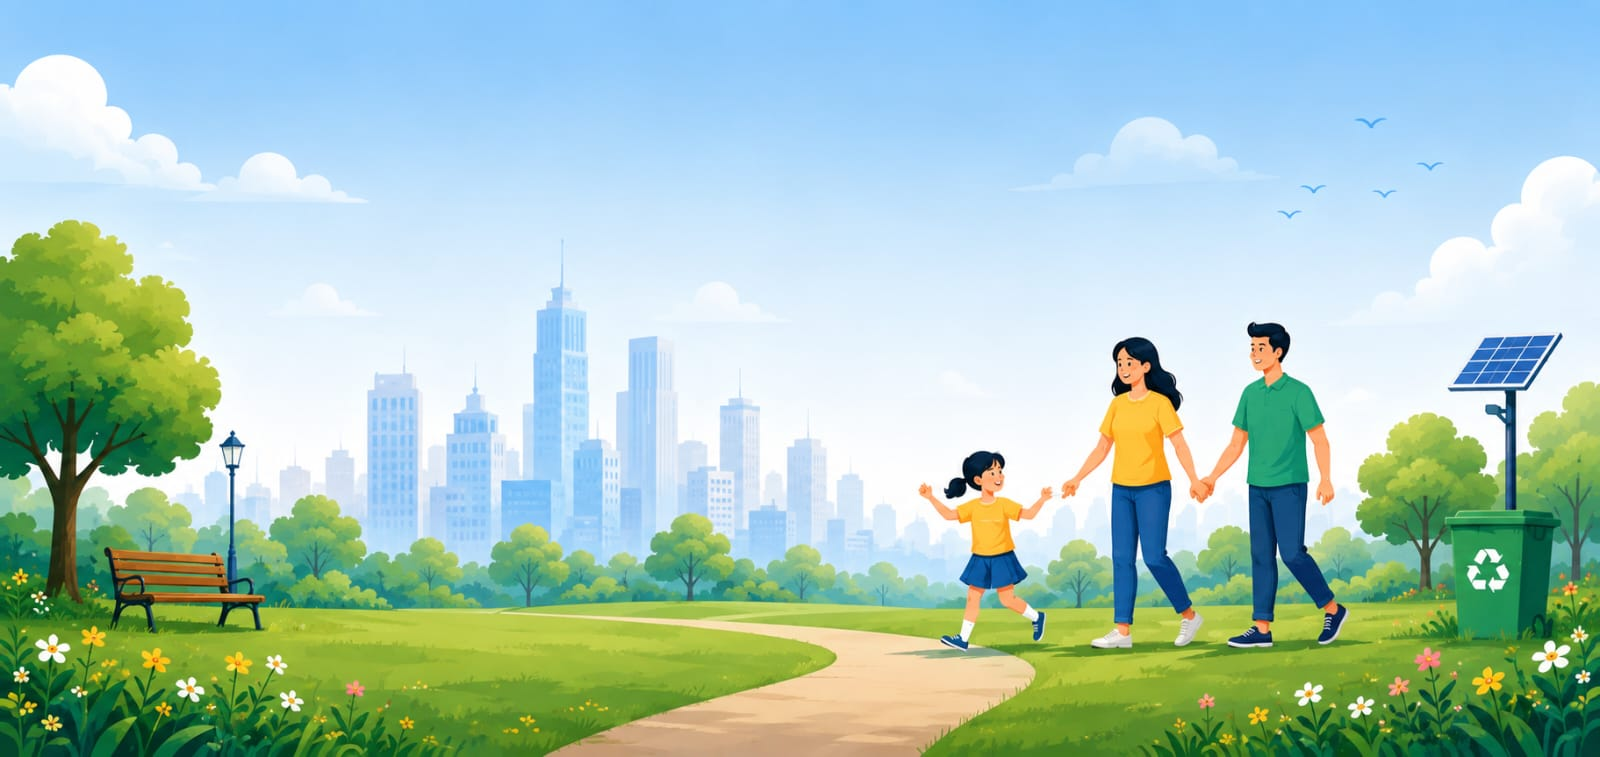
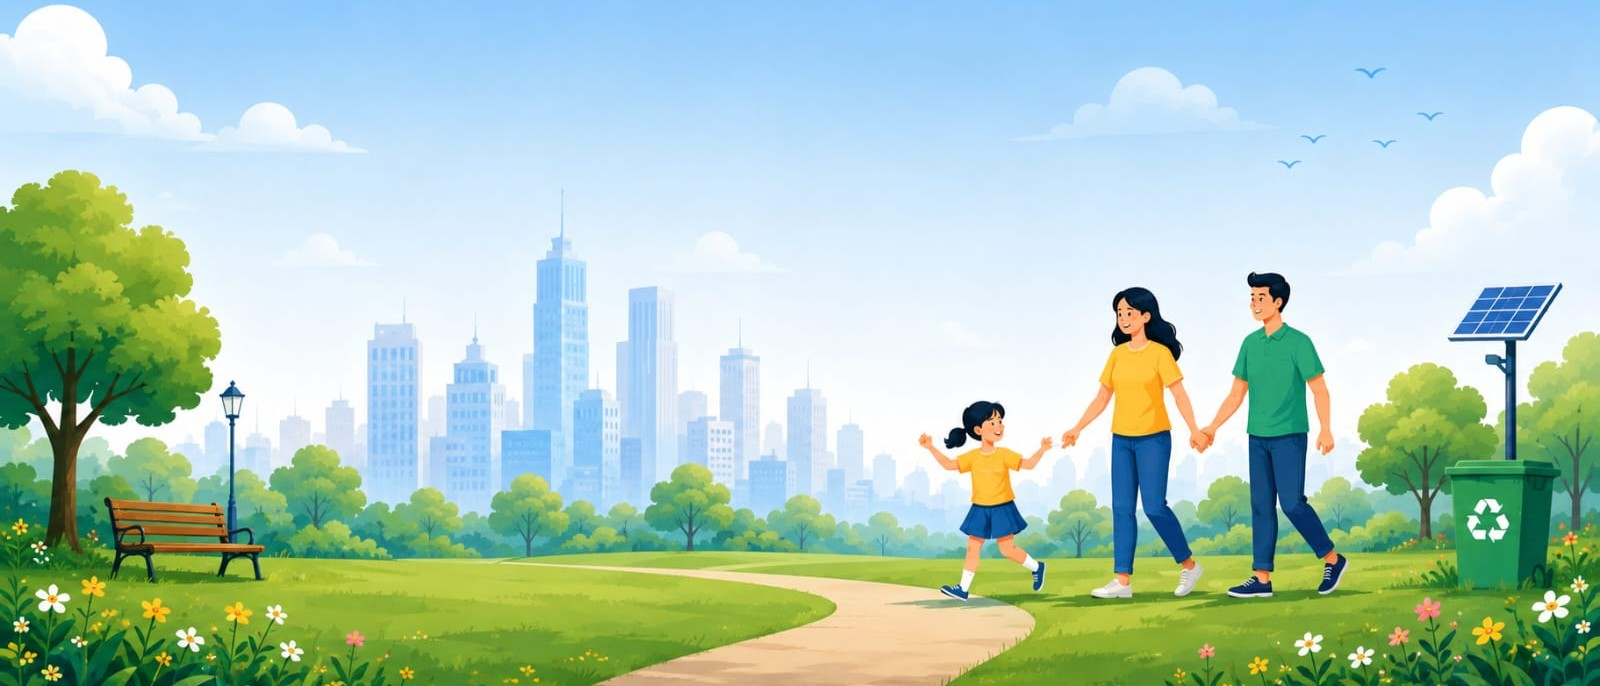
fix: prevent 4th stat chip from being cropped by removing max-w-2xl constraint

diff --git a/public-landing-page/src/app/page.tsx b/public-landing-page/src/app/page.tsx
@@ -125,57 +125,57 @@ function HeroSection() {
                 <div className="flex flex-col lg:flex-row items-start justify-between gap-8 lg:gap-12">
 
                     {/* ── LEFT: Headline + subtitle + stat chips ── */}
-                    <div className="flex-1 max-w-2xl xl:max-w-3xl space-y-4 sm:space-y-6">
+                    <div className="flex-1 min-w-0 space-y-4 sm:space-y-6">
                         {/* Headline */}
                         <div>
                             <h1 className="text-4xl sm:text-5xl lg:text-6xl xl:text-[68px] 2xl:text-[74px] font-extrabold text-gray-900 leading-[1.05] tracking-tight">
                                 Together, We Build<br />
                                 <span className="text-[#16a34a]">Better Communities</span>
                             </h1>
-                            <p className="mt-3 sm:mt-4 text-sm sm:text-base lg:text-lg xl:text-xl text-gray-700 leading-relaxed font-medium max-w-xl">
+                            <p className="mt-3 sm:mt-4 text-sm sm:text-base lg:text-lg xl:text-xl text-gray-700 leading-relaxed font-medium max-w-2xl">
                                 Report. Track. Resolve. Your voice<br className="hidden sm:inline" /> drives real change in your city.
                             </p>
                         </div>
 
-                        {/* 4 Stat chips in ONE single horizontal row matching Screenshot 2 with enlarged presence */}
-                        <div className="flex items-center gap-3 sm:gap-4 overflow-x-auto pb-2 max-w-full no-scrollbar pt-1">
-                            <div className="flex items-center gap-3 bg-white/95 backdrop-blur-md rounded-2xl px-4 py-2.5 sm:px-5 sm:py-3 shadow-md border border-gray-100/90 shrink-0 hover:shadow-lg transition">
-                                <div className="w-9 h-9 sm:w-11 sm:h-11 rounded-xl bg-emerald-50 text-emerald-600 flex items-center justify-center shrink-0">
+                        {/* 4 Stat chips in ONE single row - fully visible with no cropping */}
+                        <div className="flex items-center gap-2 sm:gap-2.5 xl:gap-3.5 flex-wrap sm:flex-nowrap pt-1">
+                            <div className="flex items-center gap-2.5 bg-white/95 backdrop-blur-md rounded-2xl px-3 py-2 sm:px-3.5 sm:py-2.5 xl:px-4 xl:py-3 shadow-md border border-gray-100/90 shrink-0 hover:shadow-lg transition">
+                                <div className="w-8 h-8 sm:w-10 sm:h-10 rounded-xl bg-emerald-50 text-emerald-600 flex items-center justify-center shrink-0">
                                     <Users className="w-4 h-4 sm:w-5 sm:h-5" />
                                 </div>
-                                <div className="pr-1">
-                                    <div className="text-sm sm:text-base lg:text-lg font-black text-gray-900 leading-tight">12,400+</div>
-                                    <div className="text-[10px] sm:text-xs text-gray-500 font-medium leading-none mt-0.5">Citizens Connected</div>
+                                <div className="pr-0.5">
+                                    <div className="text-xs sm:text-sm xl:text-base font-black text-gray-900 leading-tight">12,400+</div>
+                                    <div className="text-[9px] sm:text-[11px] text-gray-500 font-medium leading-none mt-0.5 whitespace-nowrap">Citizens Connected</div>
                                 </div>
                             </div>
 
-                            <div className="flex items-center gap-3 bg-white/95 backdrop-blur-md rounded-2xl px-4 py-2.5 sm:px-5 sm:py-3 shadow-md border border-gray-100/90 shrink-0 hover:shadow-lg transition">
-                                <div className="w-9 h-9 sm:w-11 sm:h-11 rounded-xl bg-blue-50 text-blue-500 flex items-center justify-center shrink-0">
+                            <div className="flex items-center gap-2.5 bg-white/95 backdrop-blur-md rounded-2xl px-3 py-2 sm:px-3.5 sm:py-2.5 xl:px-4 xl:py-3 shadow-md border border-gray-100/90 shrink-0 hover:shadow-lg transition">
+                                <div className="w-8 h-8 sm:w-10 sm:h-10 rounded-xl bg-blue-50 text-blue-500 flex items-center justify-center shrink-0">
                                     <CheckCircle2 className="w-4 h-4 sm:w-5 sm:h-5" />
                                 </div>
-                                <div className="pr-1">
-                                    <div className="text-sm sm:text-base lg:text-lg font-black text-gray-900 leading-tight">2,450+</div>
-                                    <div className="text-[10px] sm:text-xs text-gray-500 font-medium leading-none mt-0.5">Issues Resolved</div>
+                                <div className="pr-0.5">
+                                    <div className="text-xs sm:text-sm xl:text-base font-black text-gray-900 leading-tight">2,450+</div>
+                                    <div className="text-[9px] sm:text-[11px] text-gray-500 font-medium leading-none mt-0.5 whitespace-nowrap">Issues Resolved</div>
                                 </div>
                             </div>
 
-                            <div className="flex items-center gap-3 bg-white/95 backdrop-blur-md rounded-2xl px-4 py-2.5 sm:px-5 sm:py-3 shadow-md border border-gray-100/90 shrink-0 hover:shadow-lg transition">
-                                <div className="w-9 h-9 sm:w-11 sm:h-11 rounded-xl bg-purple-50 text-purple-600 flex items-center justify-center shrink-0">
+                            <div className="flex items-center gap-2.5 bg-white/95 backdrop-blur-md rounded-2xl px-3 py-2 sm:px-3.5 sm:py-2.5 xl:px-4 xl:py-3 shadow-md border border-gray-100/90 shrink-0 hover:shadow-lg transition">
+                                <div className="w-8 h-8 sm:w-10 sm:h-10 rounded-xl bg-purple-50 text-purple-600 flex items-center justify-center shrink-0">
                                     <Heart className="w-4 h-4 sm:w-5 sm:h-5" />
                                 </div>
-                                <div className="pr-1">
-                                    <div className="text-sm sm:text-base lg:text-lg font-black text-gray-900 leading-tight">94%</div>
-                                    <div className="text-[10px] sm:text-xs text-gray-500 font-medium leading-none mt-0.5">Satisfaction Rate</div>
+                                <div className="pr-0.5">
+                                    <div className="text-xs sm:text-sm xl:text-base font-black text-gray-900 leading-tight">94%</div>
+                                    <div className="text-[9px] sm:text-[11px] text-gray-500 font-medium leading-none mt-0.5 whitespace-nowrap">Satisfaction Rate</div>
                                 </div>
                             </div>
 
-                            <div className="flex items-center gap-3 bg-white/95 backdrop-blur-md rounded-2xl px-4 py-2.5 sm:px-5 sm:py-3 shadow-md border border-gray-100/90 shrink-0 hover:shadow-lg transition">
-                                <div className="w-9 h-9 sm:w-11 sm:h-11 rounded-xl bg-amber-50 text-amber-600 flex items-center justify-center shrink-0">
+                            <div className="flex items-center gap-2.5 bg-white/95 backdrop-blur-md rounded-2xl px-3 py-2 sm:px-3.5 sm:py-2.5 xl:px-4 xl:py-3 shadow-md border border-gray-100/90 shrink-0 hover:shadow-lg transition">
+                                <div className="w-8 h-8 sm:w-10 sm:h-10 rounded-xl bg-amber-50 text-amber-600 flex items-center justify-center shrink-0">
                                     <Building2 className="w-4 h-4 sm:w-5 sm:h-5" />
                                 </div>
-                                <div className="pr-1">
-                                    <div className="text-sm sm:text-base lg:text-lg font-black text-gray-900 leading-tight">6</div>
-                                    <div className="text-[10px] sm:text-xs text-gray-500 font-medium leading-none mt-0.5">Departments</div>
+                                <div className="pr-0.5">
+                                    <div className="text-xs sm:text-sm xl:text-base font-black text-gray-900 leading-tight">6</div>
+                                    <div className="text-[9px] sm:text-[11px] text-gray-500 font-medium leading-none mt-0.5 whitespace-nowrap">Departments</div>
                                 </div>
                             </div>
                         </div>
